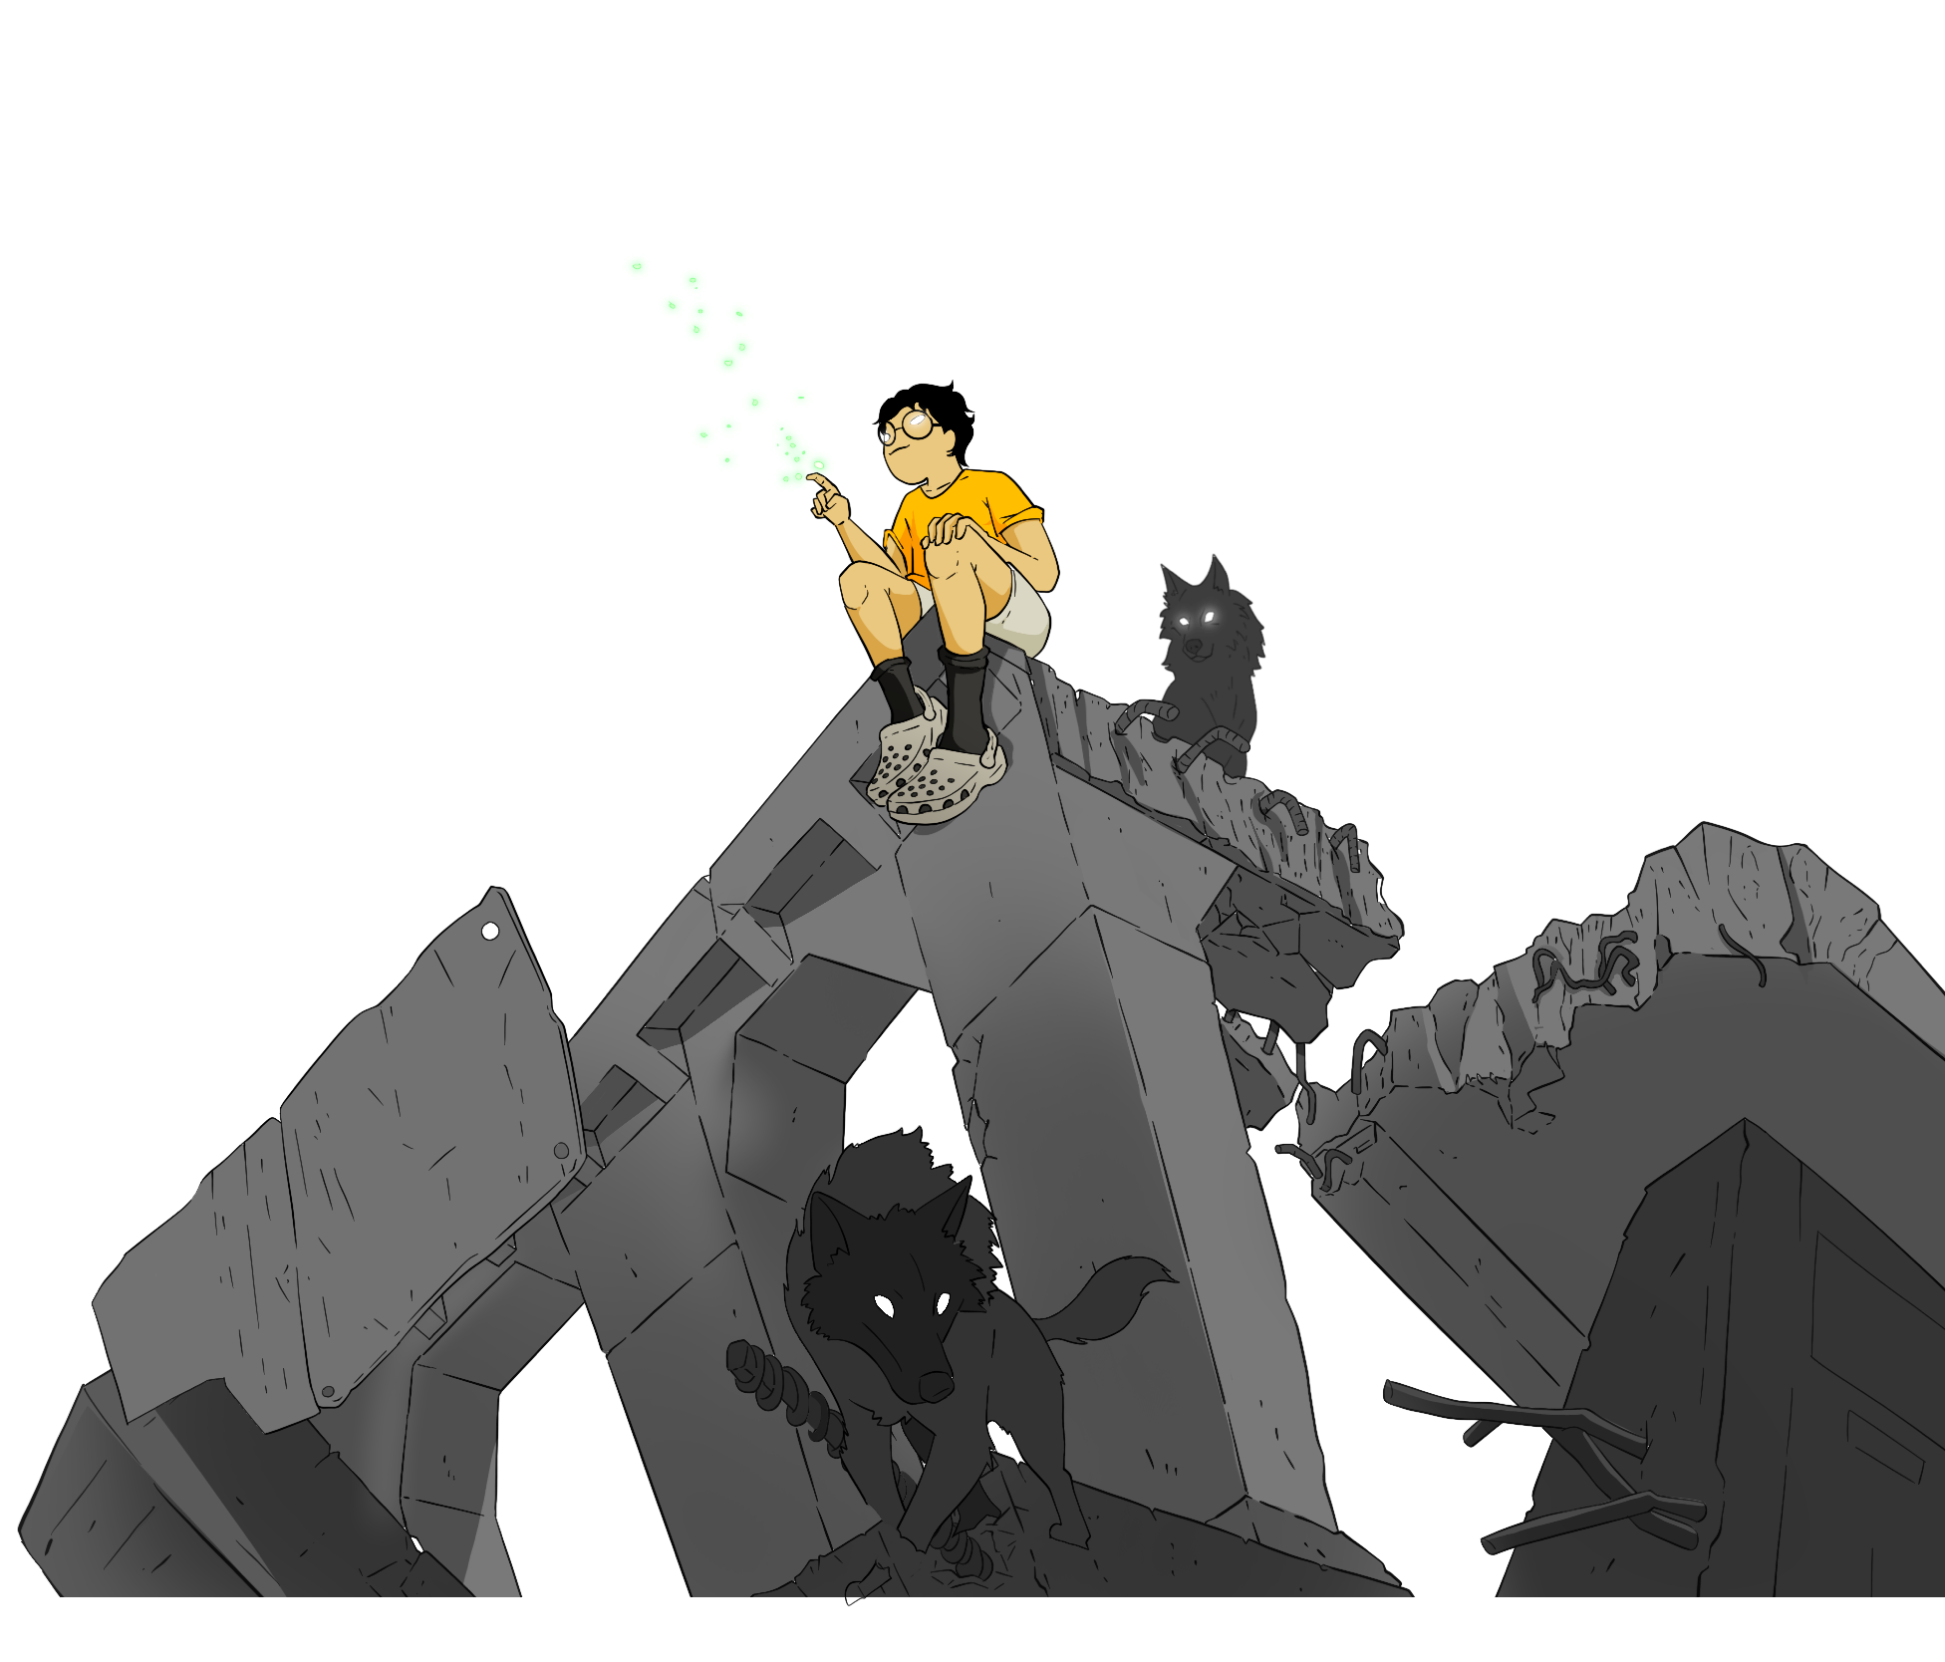
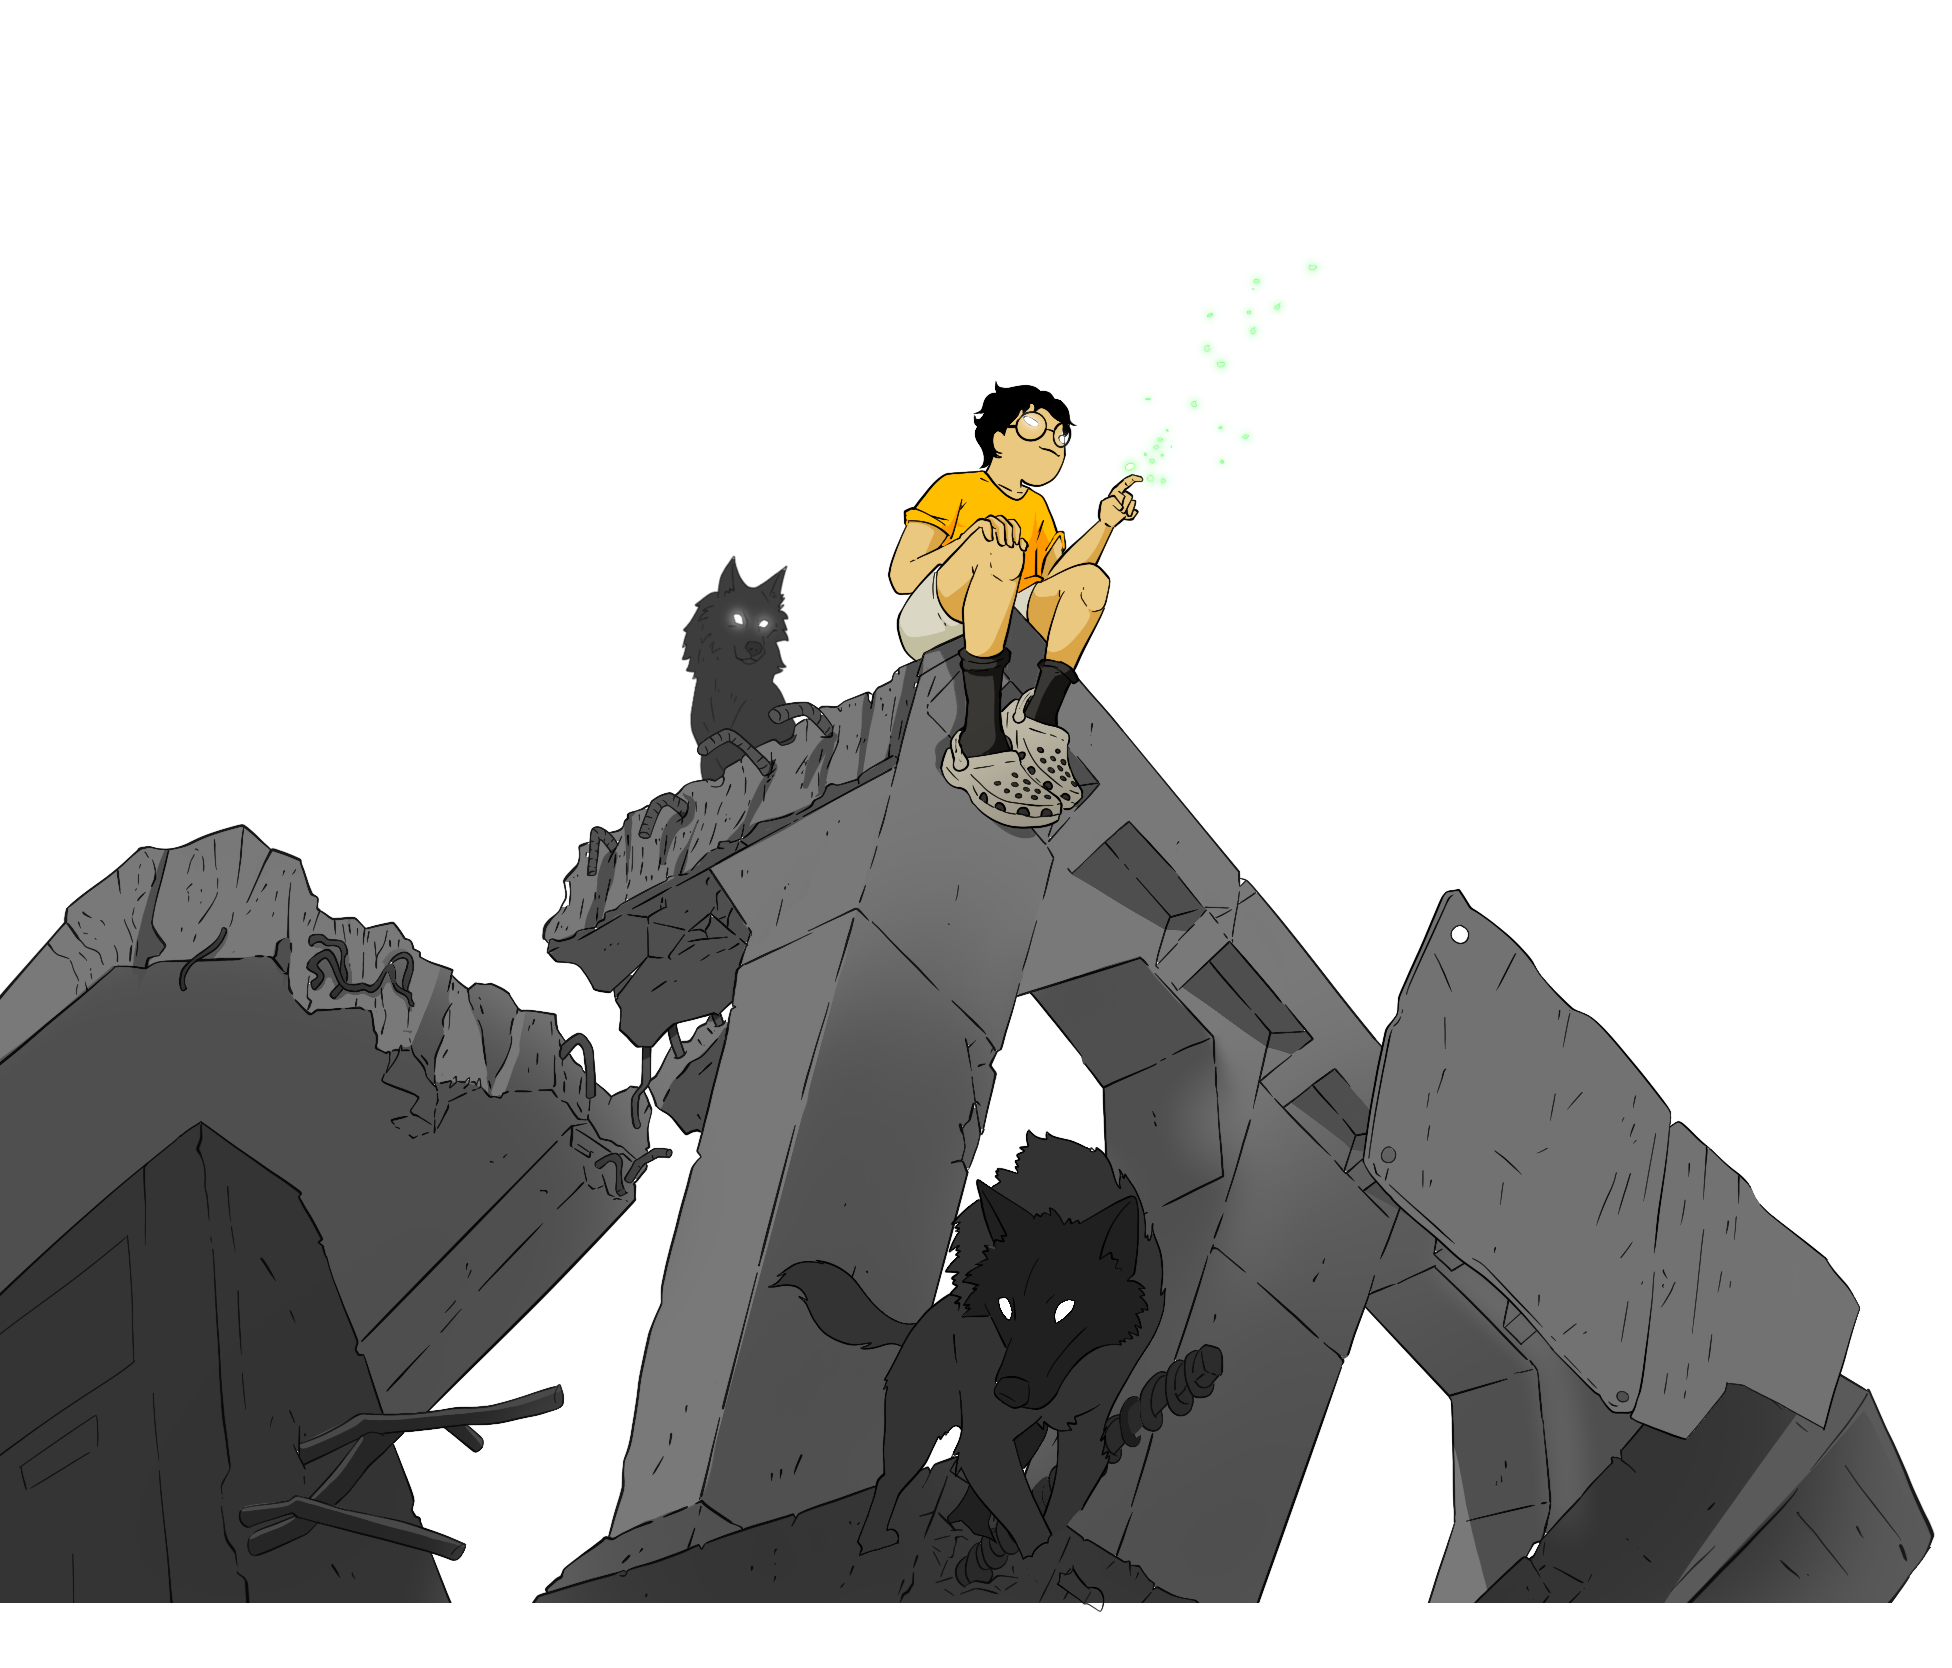
Update hero images and styles

diff --git a/styles.css b/styles.css
@@ -123,10 +123,10 @@
     .hero-bg-layer img { display:block; width:100%; height:100%; object-fit:cover; filter:blur(3.05px); }
 
     .hero-fg-layer {
-      position:absolute; top:334px; left:422.38px; width:972.5px; height:831px;
+      position:absolute; top:514px; left:-8px; width:1952px; height:1668px;
       z-index:1; will-change:transform; pointer-events:none;
     }
-    .hero-fg-layer img { display:block; width:100%; height:100%; object-fit:cover; transform:scaleX(-1); }
+    .hero-fg-layer img { display:block; width:100%; height:100%; object-fit:cover; }
 
     .back-ribbon{position:absolute;left:-111px;top:472.6px;width:1900.5px;height:525.9px;z-index:0;pointer-events:none}
     .front-ribbon{position:absolute;left:521.2px;top:833.3px;width:1353.6px;height:526.4px;z-index:3;pointer-events:none}
